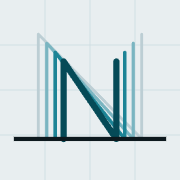
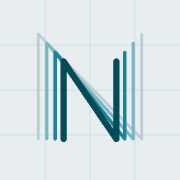
La icona sense la línia de base: només la N

Changed region(s): [[0.0556, 0.75, 0.9444, 0.8056]]

diff --git a/index.html b/index.html
@@ -463,7 +463,7 @@ input[type="file"].entrada { padding: var(--e3); font-size: 14px; }
 <body>
 <!-- GENERAT PER eines/construeix.mjs — NO EDITIS AQUEST FITXER.
      La font són els fitxers de apps-script/. Torna a executar npm run construeix. -->
-<script>window.MARCA_JEFE = "2026-10-08 00:19 · en curs";</script>
+<script>window.MARCA_JEFE = "2026-10-08 00:26 · en curs";</script>
 <!--
   THESIS: cada dia és una carena amb un pols a la posició del seu balanç; la
     setmana i el mes són les carenes apilades. Germana de l'app del cos.
@@ -520,11 +520,10 @@ input[type="file"].entrada { padding: var(--e3); font-size: 14px; }
   <symbol id="ic-habits" viewBox="0 0 24 24"><path d="M3 18h18"/><path d="M3 18c4 0 5-6 9-6s5 6 9 6"/></symbol>
   <symbol id="ic-modul" viewBox="0 0 24 24"><path d="M4 5h16v14H4z"/><path d="M4 9h16"/></symbol>
 
-  <!-- L'app: la sigla sobre la línia de base. A 24 px els ecos de la icona
+  <!-- L'app: la sigla sola. A 24 px els ecos de la icona
        instal·lada es barregen; aquí n'hi ha prou amb la N. -->
   <symbol id="ic-nutricio" viewBox="0 0 24 24">
-    <path d="M3 20.2h18"/>
-    <path d="M7 20.2V5.5l10 14.7V5.5"/>
+    <path d="M7 19.3V4.7l10 14.6V4.7"/>
   </symbol>
 </svg>
 
@@ -556,7 +555,7 @@ input[type="file"].entrada { padding: var(--e3); font-size: 14px; }
 
 <script>
 /* GENERAT PER eines/construeix.mjs — NO EDITIS AQUEST FITXER. */
-window.MARCA_JEFE = "2026-10-08 00:19 · en curs";
+window.MARCA_JEFE = "2026-10-08 00:26 · en curs";
 </script>
 
 <script>

diff --git a/apps-script/ui_icones.html b/apps-script/ui_icones.html
@@ -37,10 +37,9 @@
   <symbol id="ic-habits" viewBox="0 0 24 24"><path d="M3 18h18"/><path d="M3 18c4 0 5-6 9-6s5 6 9 6"/></symbol>
   <symbol id="ic-modul" viewBox="0 0 24 24"><path d="M4 5h16v14H4z"/><path d="M4 9h16"/></symbol>
 
-  <!-- L'app: la sigla sobre la línia de base. A 24 px els ecos de la icona
+  <!-- L'app: la sigla sola. A 24 px els ecos de la icona
        instal·lada es barregen; aquí n'hi ha prou amb la N. -->
   <symbol id="ic-nutricio" viewBox="0 0 24 24">
-    <path d="M3 20.2h18"/>
-    <path d="M7 20.2V5.5l10 14.7V5.5"/>
+    <path d="M7 19.3V4.7l10 14.6V4.7"/>
   </symbol>
 </svg>

diff --git a/sw.js b/sw.js
@@ -22,7 +22,7 @@
    «tot el que no sigui meu», cada app que s'actualitzés buidaria la de les
    altres. */
 var PREFIX = 'nutricio-';
-var CAU = PREFIX + 'v8';   // v8: el pols, germana de l'app del cos
+var CAU = PREFIX + 'v9';   // v9: la icona sense línia de base
 var ESSENCIALS = [
   './',
   './index.html',

diff --git a/apps-script/ui_marca.html b/apps-script/ui_marca.html
@@ -1,4 +1,4 @@
 <script>
 /* GENERAT PER eines/construeix.mjs — NO EDITIS AQUEST FITXER. */
-window.MARCA_JEFE = "2026-10-08 00:19 · en curs";
+window.MARCA_JEFE = "2026-10-08 00:26 · en curs";
 </script>
